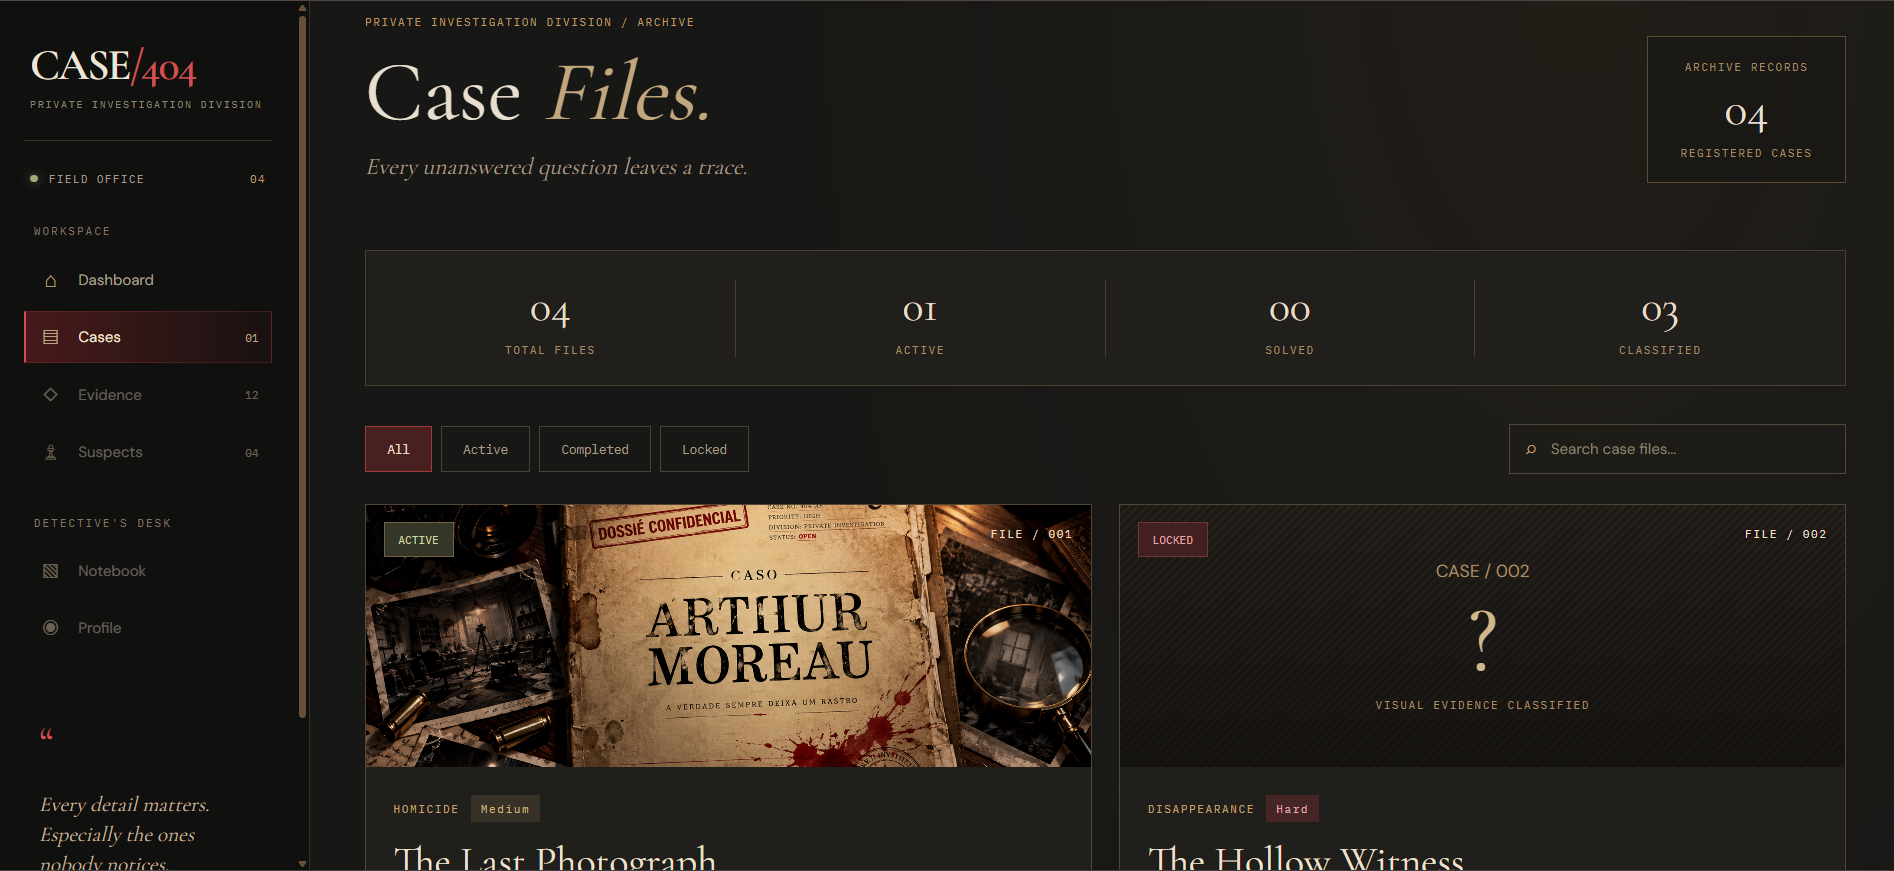
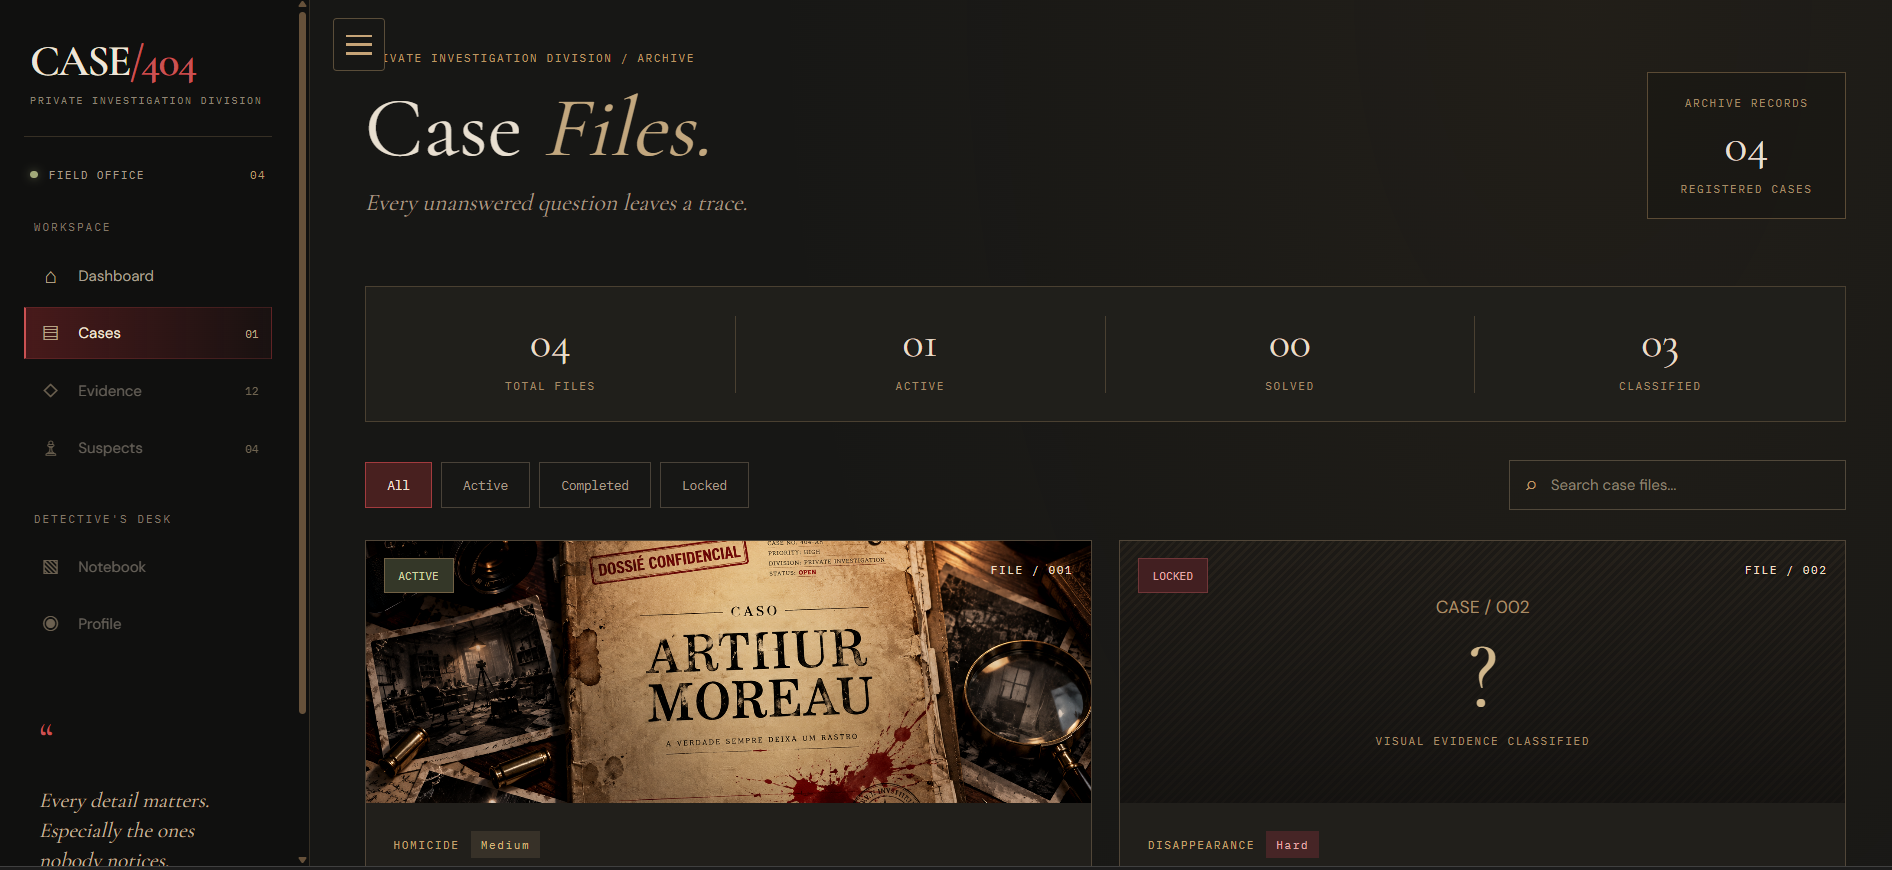
Add README screenshots and project documentation

diff --git a/README.md b/README.md
@@ -1,50 +1,56 @@
-# CASE/404
+# CASE/404 — Detective Investigation Game
 
-<p align="center">
-  <strong>EVERY CASE LEAVES A TRACE. EVERY TRACE TELLS A STORY.</strong>
-</p>
+**Every case has a story. Every clue has a purpose. Can you find the truth?**
 
-<p align="center">
-  A cinematic detective investigation experience built with Angular.
-</p>
+CASE/404 is a noir-inspired detective investigation game built with Angular. Step into the role of an investigator, explore crime scenes, examine evidence, study suspects, and uncover the truth behind mysterious cases.
 
----
+## Screenshots
 
-## Preview
+### Dashboard
 
-<p align="center">
-  <img src="screenshots/dashboard.png" width="100%" alt="CASE/404 Dashboard">
-</p>
+![CASE/404 Dashboard](screenshots/dashboard.png)
 
-<p align="center">
-  <img src="screenshots/cases.png" width="100%" alt="CASE/404 Case Archive">
-</p>
+### Case Archive
 
-## About the Project
-
-**CASE/404** is a detective investigation game where players step into the role of a private investigator, explore mysterious cases, examine evidence, and uncover the truth behind each crime.
-
-Inspired by noir detective stories, the project combines an immersive visual atmosphere with an interactive investigation interface.
-
-The goal is to create an experience where every detail matters and every decision brings the detective closer to the truth.
+![CASE/404 Case Archive](screenshots/cases.png)
 
 ## Features
 
-- **Detective Dashboard** — An overview of the investigation workspace.
-- **Case Archive** — Browse cases and explore their details.
-- **Case Filtering** — Search cases and filter them by status.
-- **Investigation Interface** — A foundation for managing suspects, evidence, and case progress.
-- **Noir Visual Identity** — A cinematic interface inspired by classic detective stories.
+- **Detective Dashboard** — Overview of investigations, recent activity, and outstanding leads.
+- **Case Management** — Browse cases and filter them by status.
+- **Case Dossiers** — Explore case backgrounds, crime scenes, suspects, and evidence.
+- **Suspect Investigation** — Access individual suspect profiles and recorded statements.
+- **Evidence Examination** — Inspect evidence and review fictional forensic findings.
+- **Noir Atmosphere** — A dark detective-agency interface inspired by classic crime investigation aesthetics.
 
-## Tech Stack
+## Featured Case: The Last Photograph
+
+**CASE 001 — Arthur Moreau**
+
+A renowned photographer is found dead inside his private studio in Paris. His final photographic collection has disappeared.
+
+Four individuals had access to the studio on the night of October 30.
+
+- Victim: Arthur Moreau
+- Location: Studio A, Paris
+- Category: Homicide
+- Difficulty: Medium
+- Suspects: 4
+- Evidence Archive: 5 items
+
+The investigation is only beginning.
+
+## Technology Stack
 
 | Technology | Purpose |
 |---|---|
-| Angular | Frontend framework |
+| Angular | Front-end framework |
 | TypeScript | Application logic |
-| HTML5 | Application structure |
+| HTML | Application structure |
 | SCSS | Styling and visual design |
-| LocalStorage | Planned local data persistence |
+| Angular Router | Navigation |
+| Local Mock Data | Case and investigation data |
+| LocalStorage | Planned local progress persistence |
 
 ## Getting Started
 
@@ -56,84 +62,99 @@ The goal is to create an experience where every detail matters and every decisio
 
 ### Installation
 
-1. Clone the repository:
+Clone the repository:
 
-   ```bash
-   git clone https://github.com/vziz1312/case404.git
-   ```
+```bash
+git clone https://github.com/vziz1312/case404.git
+```
 
-2. Navigate to the project directory:
+Navigate to the project:
 
-   ```bash
-   cd case404
-   ```
+```bash
+cd case404
+```
 
-3. Install dependencies:
+Install dependencies:
 
-   ```bash
-   npm install
-   ```
+```bash
+npm install
+```
 
-4. Start the development server:
+Start the development server:
 
-   ```bash
-   npm start
-   ```
+```bash
+npm start
+```
 
-5. Open your browser at:
+Open your browser at:
 
-   ```text
-   http://localhost:4200
-   ```
+```text
+http://localhost:4200
+```
 
 ## Project Structure
 
 ```text
 case404/
+│
+├── screenshots/
+│   ├── dashboard.png
+│   └── cases.png
+│
 ├── src/
 │   ├── app/
 │   │   ├── pages/
 │   │   │   ├── dashboard/
-│   │   │   └── cases/
+│   │   │   ├── cases/
+│   │   │   ├── case-dossier/
+│   │   │   └── suspect-dossier/
+│   │   │
 │   │   ├── shared/
 │   │   │   └── sidebar/
+│   │   │
 │   │   ├── app-routing.module.ts
 │   │   └── app.module.ts
-│   ├── assets/
-│   │   └── images/
-│   └── styles.scss
-├── angular.json
+│   │
+│   └── assets/
+│       └── images/
+│
 ├── package.json
 └── README.md
 ```
 
 ## Development Roadmap
 
-- [x] Project setup with Angular
-- [x] Noir-inspired dashboard interface
-- [x] Sidebar navigation
-- [x] Case archive page
-- [x] Case search and filtering
-- [ ] Individual case investigation pages
-- [ ] Suspect profiles and interrogation system
-- [ ] Evidence collection and analysis
+### Implemented
+
+- [x] Noir detective dashboard
+- [x] Case archive with filtering and search
+- [x] Case dossier page
+- [x] Crime scene report
+- [x] Suspect profiles
+- [x] Evidence archive
+- [x] Interactive evidence examination
+- [x] Dashboard navigation and investigation leads
+
+### Planned
+
 - [ ] Interactive investigation board
-- [ ] Case progression and completion system
-- [ ] Local data persistence
+- [ ] Evidence cross-referencing
+- [ ] Timeline reconstruction
+- [ ] Suspect interrogations
+- [ ] Final accusation system
+- [ ] Case solution reveal and detective scoring
+- [ ] Optional AI-powered investigation assistance
 
 ## Project Status
 
-**In development.**
+CASE/404 is currently a front-end prototype powered by local mock data. Backend integration and additional investigation mechanics are planned for future development.
 
-CASE/404 is an ongoing project. New investigation mechanics and features are being developed progressively.
+## Author
+
+**Mohamed Aziz Mghirbi**
+
+GitHub: [@vziz1312](https://github.com/vziz1312)
 
 ---
 
-<p align="center">
-  <strong>CASE/404</strong><br>
-  <em>Some truths are better left buried.</em>
-</p>
-
-<p align="center">
-  Developed by <a href="https://github.com/vziz1312">vziz1312</a>
-</p>
+*CASE/404 — The truth is hidden between the evidence.*
